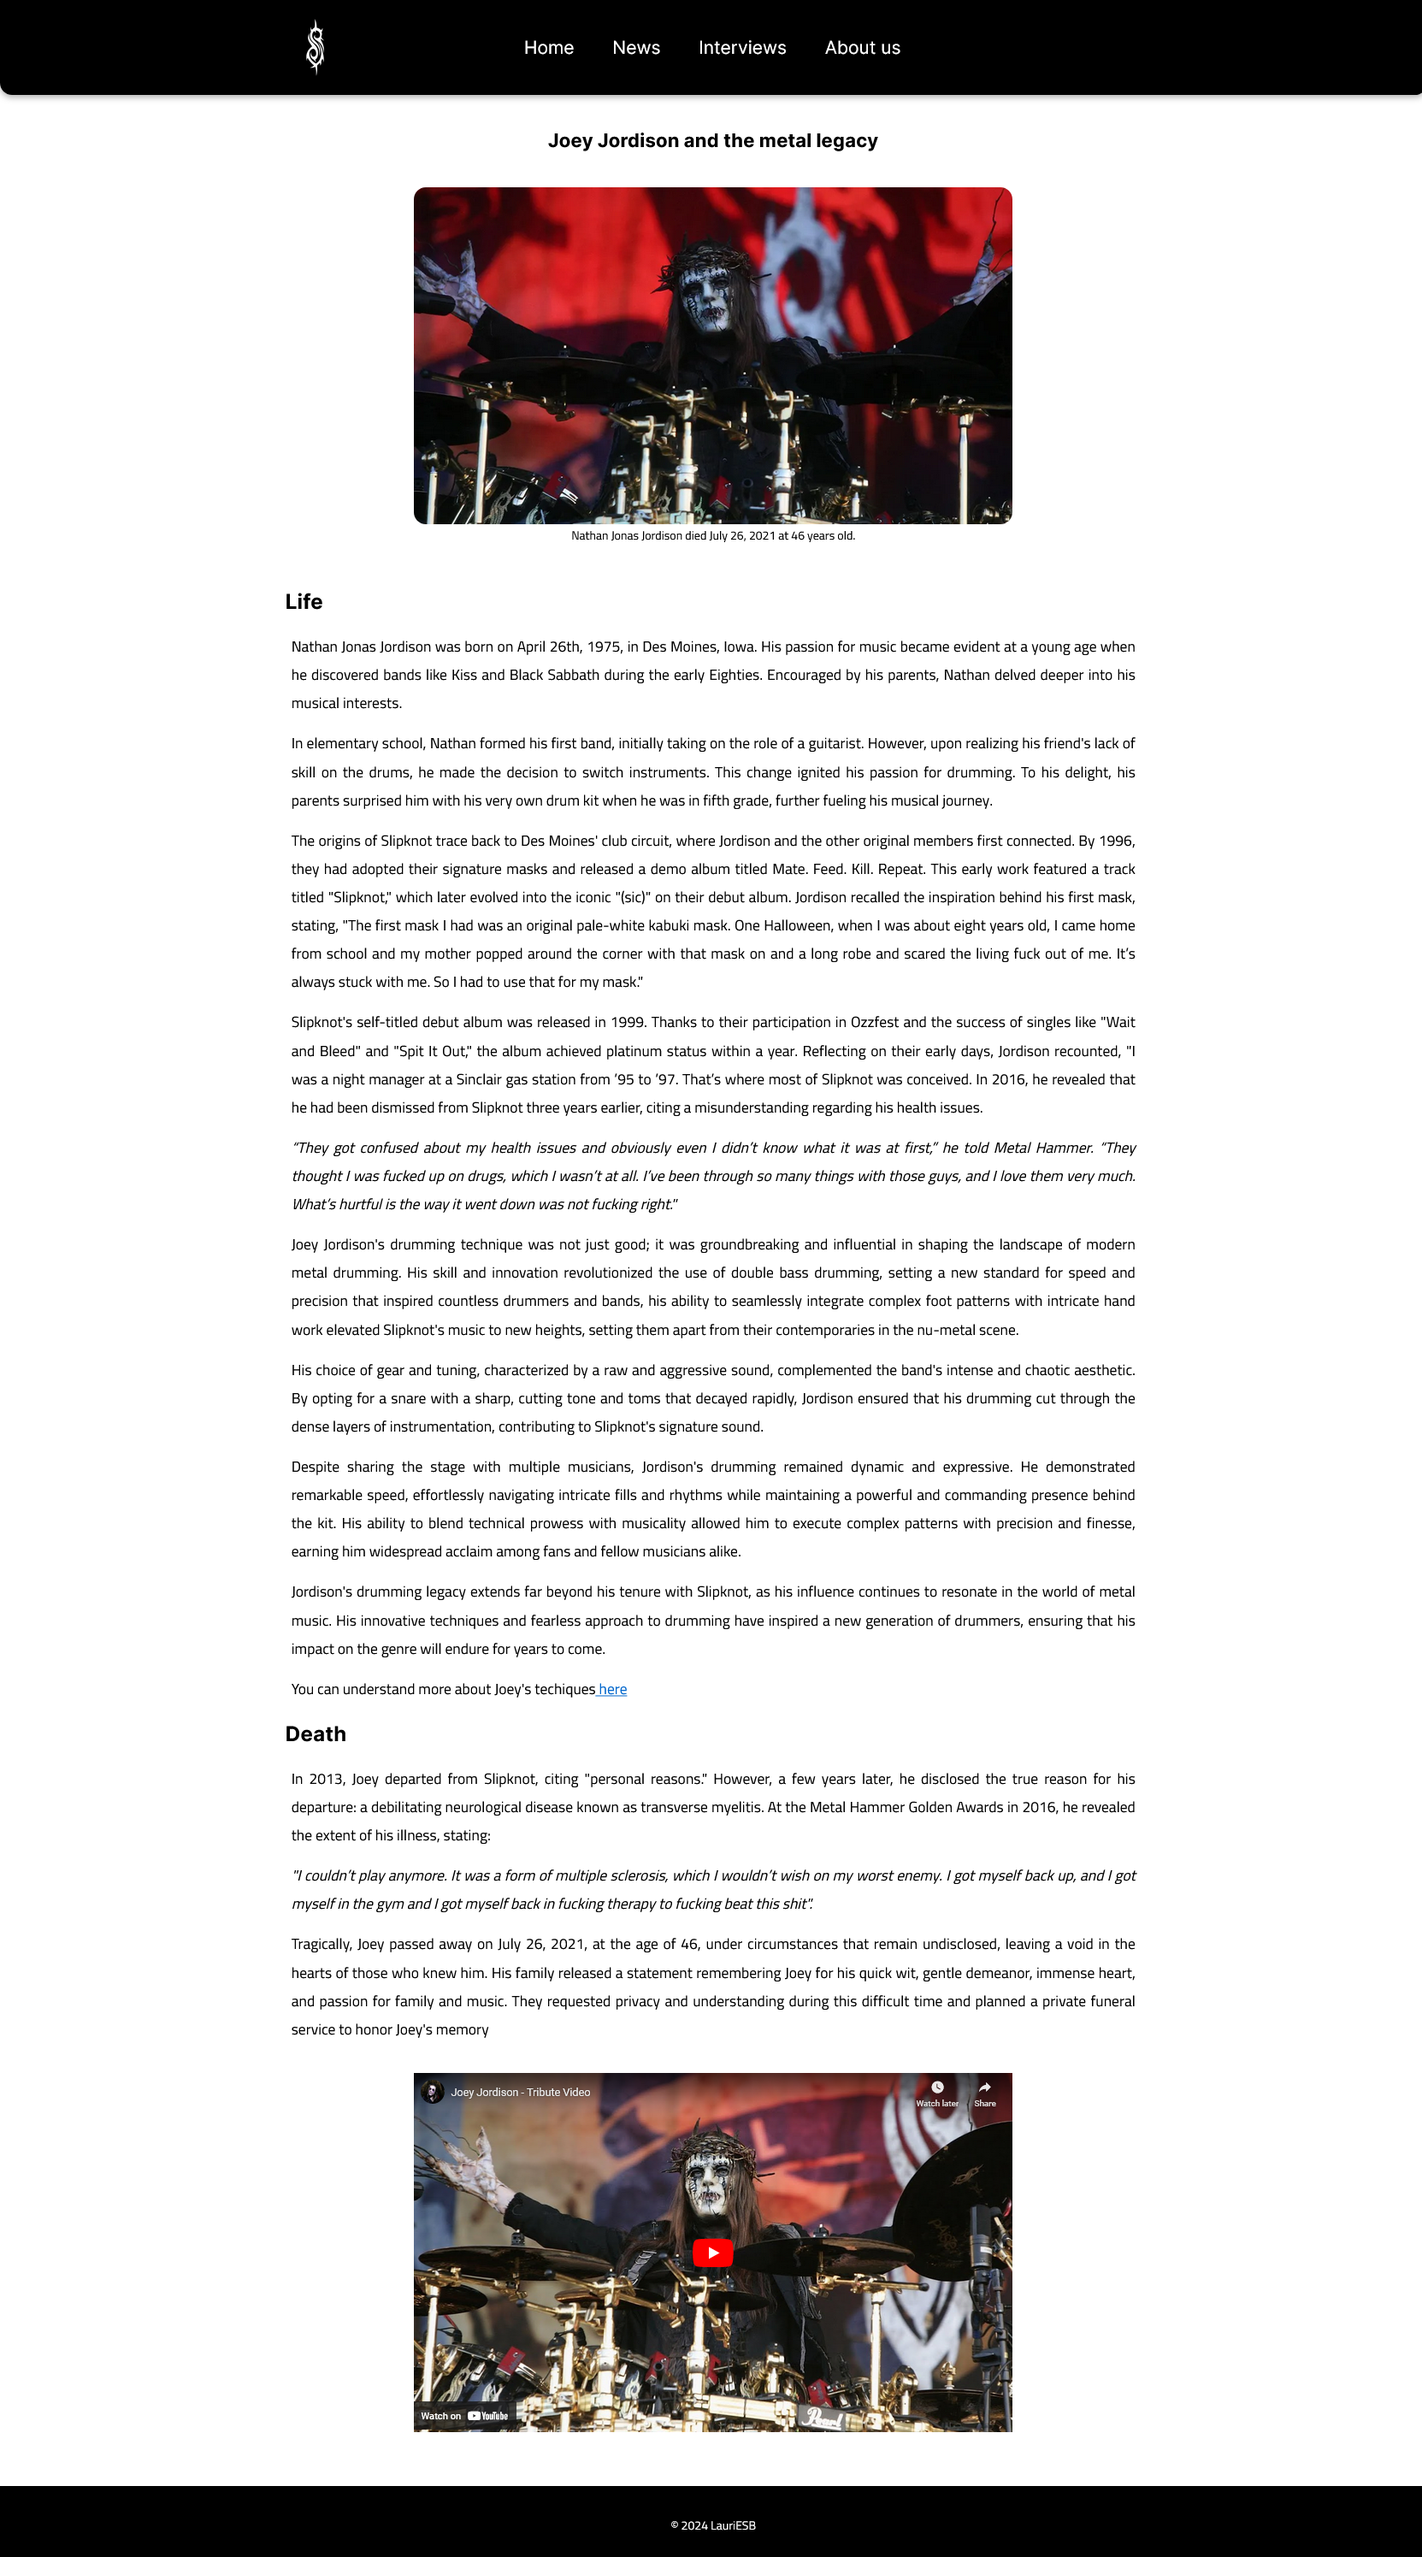
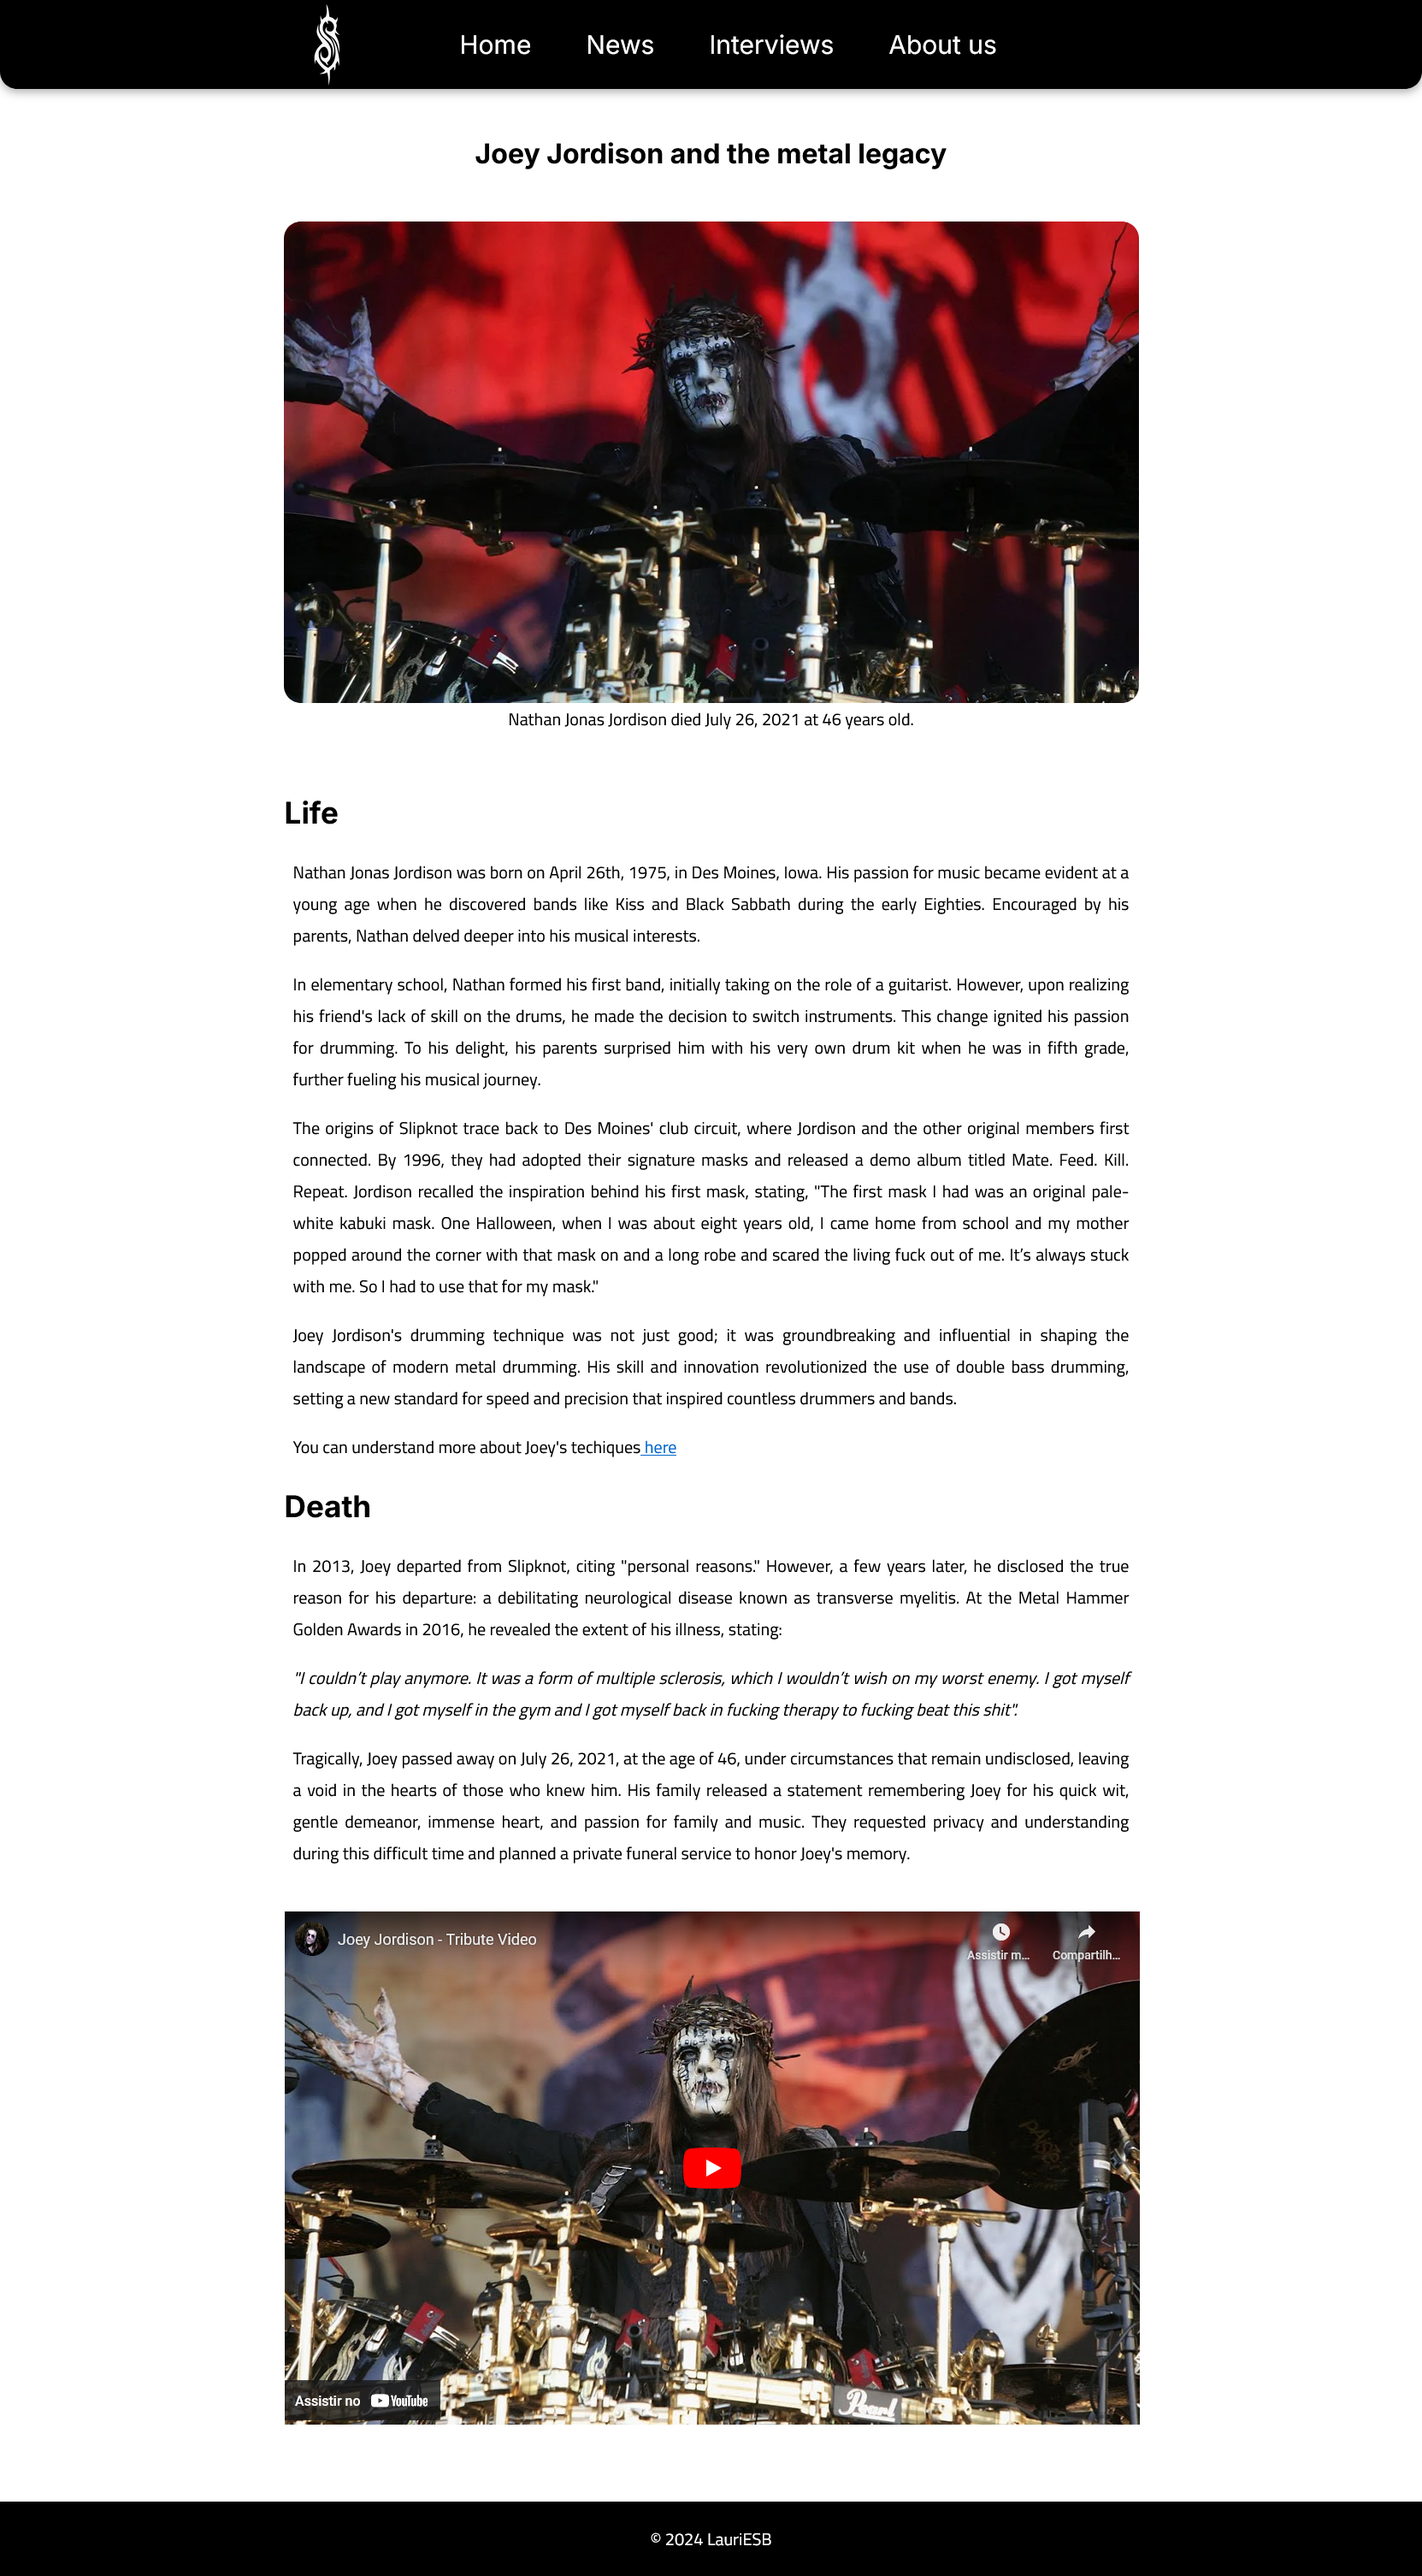
add new text and image

Changed region(s): [[0.0, 0.0, 1.0, 0.9953]]

diff --git a/index.html b/index.html
@@ -55,27 +55,15 @@
           further fueling his musical journey.</p>
         <p>The origins of Slipknot trace back to Des Moines' club circuit, where Jordison and the other original members
           first connected. By 1996, they had adopted
-          their signature masks and released a demo album titled Mate. Feed. Kill. Repeat. This early work featured a
-          track titled "Slipknot," which later evolved into
-          the iconic "(sic)" on their debut album. Jordison recalled the inspiration behind his first mask, stating,
+          their signature masks and released a demo album titled Mate. Feed. Kill. Repeat. Jordison recalled the inspiration 
+          behind his first mask, stating,
           "The first mask I had was an original pale-white kabuki
           mask. One Halloween, when I was about eight years old, I came home from school and my mother popped around the
           corner with that mask on and a long robe and scared the living fuck out of me. It’s always stuck with me. So I
           had to use that for my mask." </p>
         <p>Joey Jordison's drumming technique was not just good; it was groundbreaking and influential in shaping the
           landscape of modern metal drumming. His skill and innovation revolutionized the use of double bass drumming,
-          setting a new standard for speed and precision that inspired countless drummers and bands, his ability to
-          seamlessly integrate complex foot
-          patterns with intricate hand work elevated Slipknot's music to new heights, setting them apart from their
-          contemporaries in the nu-metal scene.</p>
-        <p> His choice of gear and tuning, characterized by a raw and aggressive sound, complemented the band's intense
-          and chaotic aesthetic. By opting for a snare with a sharp, cutting tone and toms that
-          decayed rapidly, Jordison ensured that his drumming cut through the dense layers of instrumentation,
-          contributing to Slipknot's signature sound.</p>
-        <p>Jordison's drumming legacy extends far beyond his tenure with Slipknot, as his influence continues to
-          resonate in the world of metal music. His innovative techniques and fearless approach to drumming have
-          inspired a new generation of drummers, ensuring that his impact on the genre will endure for years to come.
-        </p>
+          setting a new standard for speed and precision that inspired countless drummers and bands.</p>
         <p>You can understand more about Joey's techiques<a id="tribute-link"
             href="https://www.youtube.com/watch?v=7OL56NoXxMk" target="_blank"> here</a></p>
 

diff --git a/styles.css b/styles.css
@@ -78,7 +78,7 @@ main {
 
 #tribute-info>p {
   padding: 10px 10px;
-  font-size: 25px;
+  font-size: 20px;
   font-family: "Cairo", sans-serif;
   text-align: justify;
 }
